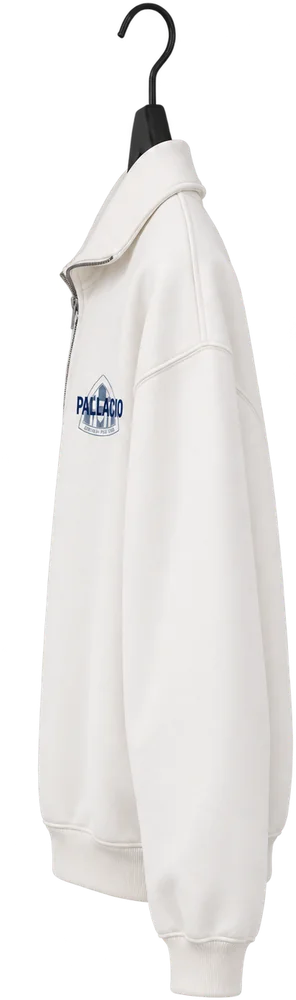
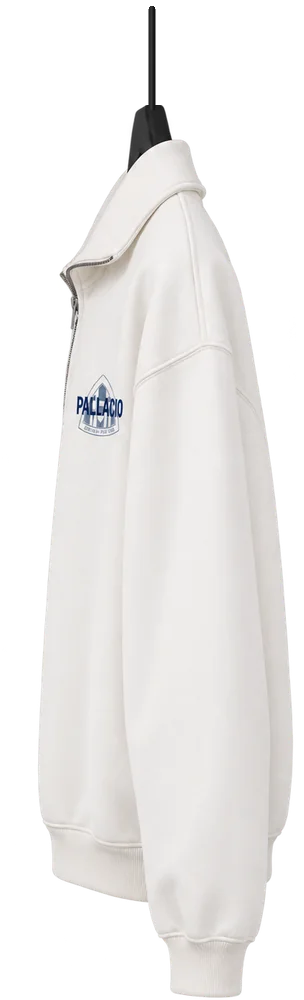
Ganchos de lado nas fotos de perfil, iguais em todas as peças
Nas fotos de perfil o gancho aparecia de frente (um "?") e cada um num
ângulo. tools/prepare_photos.py agora apaga esse gancho e desenha um
arame de lado, centrado, que sobe do cabide e passa por cima do cano,
como numa arara de verdade. Aspectos de perfil atualizados.

Claude-Session: https://claude.ai/code/session_015bxjpucPzbFeYqu1UA3XU9

diff --git a/js/products.js b/js/products.js
@@ -13,25 +13,25 @@
 window.PRODUCTS = [
   { id: "fake",          name: "FAKE T-SHIRT",           kind: "Camiseta", colour: "Azul Marinho", price: 199.90, cut: "tee",
     sizes: ["PP", "P", "M", "G", "GG", "XG"], rail: "back",
-    aspect: { front: 0.765, back: 0.766, side: 0.225 } },
+    aspect: { front: 0.765, back: 0.766, side: 0.233 } },
   { id: "matcha",        name: "MATCHA T-SHIRT",         kind: "Camiseta", colour: "Branca",       price: 199.90, cut: "tee",
     sizes: ["PP", "P", "M", "G", "GG", "XG"], rail: "back",
-    aspect: { front: 0.766, back: 0.768, side: 0.231 } },
+    aspect: { front: 0.766, back: 0.768, side: 0.239 } },
   { id: "maybach",       name: "MAYBACH HALF-ZIP",       kind: "Moletom",  colour: "Off White",    price: null,   cut: "sweat",
     sizes: ["P", "M", "G", "GG"], rail: "back",
-    aspect: { front: 0.748, back: 0.762, side: 0.296 } },
+    aspect: { front: 0.748, back: 0.762, side: 0.304 } },
   { id: "perignon",      name: "PERIGNON VERDE HOODIE",  kind: "Moletom",  colour: "Preta",        price: 329.90, cut: "sweat",
     sizes: ["P", "M", "G", "GG"], rail: "back",
-    aspect: { front: 0.765, back: 0.756, side: 0.323 } },
+    aspect: { front: 0.765, back: 0.756, side: 0.331 } },
   { id: "capri",         name: "CAPRI T-SHIRT",          kind: "Camiseta", colour: "Preta",        price: 229.90, cut: "tee",
     sizes: ["PP", "P", "M", "G", "GG", "XG"], rail: "back",
     aspect: { front: 0.763, back: 0.766, side: 0.201 } },
   { id: "mediterranean", name: "MEDITERRANEAN SHORTS",   kind: "Shorts",   colour: "Azul Marinho", price: null,   cut: "shorts",
     sizes: ["P", "M", "G", "GG"], rail: "front", scale: 0.68, turn: -1,
-    aspect: { front: 0.759, back: 0.775, side: 0.319 } },
+    aspect: { front: 0.759, back: 0.775, side: 0.327 } },
   { id: "limone",        name: "LIMONE SHORTS",          kind: "Shorts",   colour: "Listrado Branco e Azul Claro", price: null, cut: "shorts",
     sizes: ["P", "M", "G", "GG"], rail: "front", scale: 0.68, turn: -1,
-    aspect: { front: 0.732, back: 0.762, side: 0.313 } }
+    aspect: { front: 0.732, back: 0.762, side: 0.325 } }
 ];
 
 window.PRODUCTS.forEach(function (p) {

diff --git a/tools/prepare_photos.py b/tools/prepare_photos.py
@@ -10,6 +10,11 @@ Uso:
 mapa.json:
   { "fake": { "front": "fotos/fake-frente.png", "back": "...", "side": "..." }, ... }
 
+Nas fotos de perfil, o gancho foi fotografado de frente (um "?"), mas numa
+arara ele fica de lado, como a peça. Por isso o gancho é apagado e redesenhado
+de lado: um arame fino que sobe do cabide e passa por cima do cano, igual em
+todas as peças.
+
 Imprime o `aspect` de cada foto para colar em js/products.js.
 """
 import json
@@ -20,6 +25,46 @@ from PIL import Image
 
 HEIGHT = 1000  # altura final, em px
 PAD = 4        # folga acima do gancho
+APEX = 0.009   # onde o gancho apoia no cano (fração da altura); igual a js/rail-gl.js
+WIRE = 6       # espessura do arame, em px na altura final
+
+
+def neck_of(a):
+    """Linha e centro onde o arame encontra o cabide, numa foto de perfil."""
+    w = (a > 100).sum(1)
+    stem = next(y for y in range(20, len(w)) if w[y] <= 16)  # abaixo da curva do gancho
+    neck = next(y for y in range(stem + 10, len(w)) if w[y] > 20)
+    xs = np.nonzero(a[neck - 4] > 100)[0]
+    return neck, (xs.min() + xs.max() + 1) / 2
+
+
+def edge_on_hook(im):
+    """Troca o gancho de frente por um de lado, centrado no meio da foto."""
+    a = np.array(im)
+    neck, nx = neck_of(a[:, :, 3])
+    a[:neck - 2] = 0
+    shift = int(round(a.shape[1] / 2 - nx))
+    pad = abs(shift)
+    out = np.zeros((a.shape[0], a.shape[1] + 2 * pad, 4), np.uint8)
+    out[:, pad + shift:pad + shift + a.shape[1]] = a
+    cx = out.shape[1] / 2
+    top = round(APEX * a.shape[0]) - WIRE // 2
+    for y in range(top, neck + 3):
+        for x in range(int(cx - WIRE / 2) - 1, int(cx + WIRE / 2) + 2):
+            u = (x + 0.5 - cx) / (WIRE / 2)          # -1..1 através do arame
+            if y < top + WIRE / 2:                    # ponta arredondada
+                v = (top + WIRE / 2 - y - 0.5) / (WIRE / 2)
+                if u * u + v * v > 1:
+                    continue
+            cover = min(1.0, max(0.0, 1.0 - (abs(u) - 1) * WIRE / 2))
+            if cover <= 0:
+                continue
+            tone = int(16 + 46 * max(0.0, 1 - abs(u + 0.3)))  # brilho de leve à esquerda
+            px = out[y, x]
+            alpha = int(255 * cover)
+            if alpha >= px[3]:
+                out[y, x] = (tone, tone, tone + 3, alpha)
+    return Image.fromarray(out)
 
 
 def measure(path):
@@ -43,6 +88,8 @@ def main(mapping, out):
         canvas = Image.new("RGBA", (2 * half, tall), (0, 0, 0, 0))
         canvas.paste(im.crop((cx - half, top - PAD, cx + half, min(im.height, top - PAD + tall))), (0, 0))
         canvas = canvas.resize((round(2 * half * scale), HEIGHT), Image.LANCZOS)
+        if view == "side":
+            canvas = edge_on_hook(canvas)
         canvas.save(f"{out}/{pid}-{view}.webp", "WEBP", quality=84, method=6)
         aspects.setdefault(pid, {})[view] = round(canvas.width / canvas.height, 4)
     print(json.dumps(aspects, indent=2))
